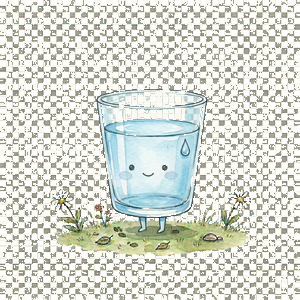
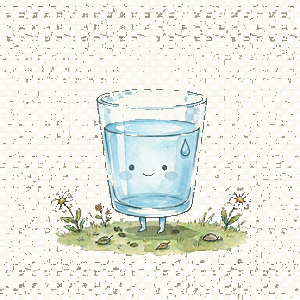
Kids: Agresywne usuwanie szachownicy v2 — poszerzony zakres szarości 125-235
Poprzedni zakres (140-210) nie łapał jaśniejszych kratek ~211-212.
Nowy algorytm: saturation<18 AND gray 125-235, plus dedykowane zakresy
dla 205-220 i 160-180. Wynik: 0% pozostałych szarych pikseli.

diff --git a/kids/index.html b/kids/index.html
@@ -220,7 +220,7 @@ body{display:flex;justify-content:center;align-items:center}
 </script>
 <div id="app">
   <div id="start-screen" class="screen active">
-    <div class="start-character"><img src="img/zaehni-brush.png?v=4" alt="Zähni"></div>
+    <div class="start-character"><img src="img/zaehni-brush.png?v=5" alt="Zähni"></div>
     <div class="start-title"><h1>FRYDENT Kids</h1><div class="subtitle">Zahnspiele mit Zähni</div></div>
     <div class="divider"></div>
     <button class="start-btn" onclick="showScreen('age-screen');playSound('click')">Los geht's!</button>
@@ -231,15 +231,15 @@ body{display:flex;justify-content:center;align-items:center}
     <div class="age-header"><h2>Wähle deine Gruppe!</h2><p>Wie alt bist du?</p></div>
     <div class="age-cards">
       <div class="age-card" onclick="selectAge('tiny');playSound('click')">
-        <div class="age-card-icon"><img src="img/zaehni-welcome.png?v=4" alt=""></div>
+        <div class="age-card-icon"><img src="img/zaehni-welcome.png?v=5" alt=""></div>
         <div class="age-card-text"><h3 style="color:var(--rose)">Zahnzwerge</h3><div class="age-range">3 – 5 Jahre</div><div class="age-desc">Bläschen, Zähneputzen, Zuordnen &amp; mehr</div></div>
       </div>
       <div class="age-card" onclick="selectAge('mid');playSound('click')">
-        <div class="age-card-icon"><img src="img/zaehni-brush.png?v=4" alt=""></div>
+        <div class="age-card-icon"><img src="img/zaehni-brush.png?v=5" alt=""></div>
         <div class="age-card-text"><h3 style="color:var(--sage)">Zahnforscher</h3><div class="age-range">5 – 7 Jahre</div><div class="age-desc">Memory, Quiz &amp; Bakterien fangen</div></div>
       </div>
       <div class="age-card" onclick="selectAge('big');playSound('click')">
-        <div class="age-card-icon"><img src="img/zaehni-detective.png?v=4" alt=""></div>
+        <div class="age-card-icon"><img src="img/zaehni-detective.png?v=5" alt=""></div>
         <div class="age-card-text"><h3 style="color:var(--lavender)">Zahndetektive</h3><div class="age-range">7 – 10 Jahre</div><div class="age-desc">Großes Memory, Quiz, Jagd &amp; Diplom</div></div>
       </div>
     </div>
@@ -249,7 +249,7 @@ body{display:flex;justify-content:center;align-items:center}
     <div class="hub-header">
       <button class="btn-round" onclick="showScreen('age-screen');playSound('click')">←</button>
       <div class="hub-title"><h2 id="hub-group-name"></h2><div class="stars-display" id="hub-stars"></div></div>
-      <div class="hub-mascot"><img id="hub-mascot-img" src="img/zaehni-welcome.png?v=4" alt=""></div>
+      <div class="hub-mascot"><img id="hub-mascot-img" src="img/zaehni-welcome.png?v=5" alt=""></div>
     </div>
     <div class="hub-games" id="hub-games-grid"></div>
   </div>
@@ -263,7 +263,7 @@ body{display:flex;justify-content:center;align-items:center}
   </div>
 
   <div class="win-overlay" id="win-overlay">
-    <div class="win-character"><img src="img/trophy.png?v=4" alt=""></div>
+    <div class="win-character"><img src="img/trophy.png?v=5" alt=""></div>
     <div class="win-text"><h2 id="win-title">Super gemacht!</h2><p id="win-subtitle"></p></div>
     <div class="win-stars" id="win-stars"></div>
     <button class="win-btn" onclick="closeWin();playSound('click')">Weiter spielen</button>
@@ -290,26 +290,26 @@ function closeWin(){document.getElementById('win-overlay').classList.remove('act
 
 const GAMES={tiny:[{id:'bubbles',icon:'bubbles',name:'Bläschen platzen',desc:'Fang die Bläschen!',color:'var(--sky-light)'},{id:'brushing',icon:'brushing',name:'Zähne putzen',desc:'Putz alle Zähne sauber!',color:'var(--sage-light)'},{id:'matching',icon:'matching',name:'Was gehört zusammen?',desc:'Finde die 6 Paare!',color:'var(--lavender-light)'},{id:'gutschlecht',icon:'gutschlecht',name:'Gut oder Schlecht?',desc:'Was mögen deine Zähne?',color:'var(--honey-light)'},{id:'diplom',icon:'diplom',name:'Dein Diplom',desc:'Zahnzwerg-Urkunde!',color:'var(--rose-light)'}],mid:[{id:'memory-6',icon:'memory',name:'Memory',desc:'6 Paare finden',color:'var(--sage-light)'},{id:'quiz-easy',icon:'quiz',name:'Kleines Quiz',desc:'5 Fragen über Zähne',color:'var(--honey-light)'},{id:'bakterien-easy',icon:'bakterien',name:'Bakterien fangen',desc:'Fang sie in 25 Sekunden!',color:'var(--rose-light)'},{id:'matching',icon:'matching',name:'Zuordnen',desc:'6 Paare verbinden!',color:'var(--lavender-light)'},{id:'diplom',icon:'diplom',name:'Dein Diplom',desc:'Zahnforscher-Urkunde!',color:'var(--sky-light)'}],big:[{id:'memory-8',icon:'memory',name:'Memory',desc:'8 Paare — für Profis!',color:'var(--sage-light)'},{id:'quiz-hard',icon:'quiz',name:'Großes Zahnquiz',desc:'8 knifflige Fragen',color:'var(--honey-light)'},{id:'bakterien-hard',icon:'bakterien',name:'Bakterienjagd',desc:'30 Sekunden Jagd!',color:'var(--rose-light)'},{id:'diplom',icon:'diplom',name:'Dein Diplom',desc:'Zahndetektiv-Urkunde',color:'var(--lavender-light)'}]};
 const GN={tiny:'Zahnzwerge',mid:'Zahnforscher',big:'Zahndetektive'};
-const GM={tiny:'img/zaehni-welcome.png?v=4',mid:'img/zaehni-brush.png?v=4',big:'img/zaehni-detective.png?v=4'};
+const GM={tiny:'img/zaehni-welcome.png?v=5',mid:'img/zaehni-brush.png?v=5',big:'img/zaehni-detective.png?v=5'};
 
 function buildHub(){const games=GAMES[currentAge];document.getElementById('hub-group-name').textContent=GN[currentAge];document.getElementById('hub-mascot-img').src=GM[currentAge];const ts=getTotalStars();document.getElementById('hub-stars').textContent=ts>0?'⭐ '+ts+' Sterne':'Sammle Sterne!';document.getElementById('hub-games-grid').innerHTML=games.map(g=>'<div class="game-card" onclick="startGame(\''+g.id+'\');playSound(\'click\')"><span class="card-star '+(stars[g.id]?'earned':'')+'">⭐</span><div class="game-card-icon">'+ICONS[g.icon]+'</div><h3>'+g.name+'</h3><p>'+g.desc+'</p><div class="game-card-accent" style="background:'+g.color+'"></div></div>').join('')}
 
 function startGame(gid){currentGame=gid;document.getElementById('game-content').innerHTML='';if(gid.startsWith('memory-'))setupMemory(parseInt(gid.split('-')[1]));else if(gid.startsWith('quiz-'))setupQuiz(gid==='quiz-hard'?8:5);else if(gid.startsWith('bakterien-'))setupBakterien(gid==='bakterien-hard'?30:25);else if(gid==='diplom')setupDiplom();else if(gid==='bubbles')setupBubbles();else if(gid==='brushing')setupBrushing();else if(gid==='matching')setupMatching();else if(gid==='gutschlecht')setupGutSchlecht();showScreen('game-screen')}
 
-const MC=[{id:'toothbrush',img:'img/card-toothbrush.png?v=4',n:'Zahnbürste'},{id:'toothpaste',img:'img/card-toothpaste.png?v=4',n:'Zahnpasta'},{id:'apple',img:'img/card-apple.png?v=4',n:'Apfel'},{id:'water',img:'img/card-water.png?v=4',n:'Wasser'},{id:'tooth',img:'img/card-tooth.png?v=4',n:'Zahn'},{id:'hourglass',img:'img/card-hourglass.png?v=4',n:'Sanduhr'},{id:'floss',img:'img/card-floss.png?v=4',n:'Zahnseide'},{id:'mirror',img:'img/card-mirror.png?v=4',n:'Spiegel'}];
+const MC=[{id:'toothbrush',img:'img/card-toothbrush.png?v=5',n:'Zahnbürste'},{id:'toothpaste',img:'img/card-toothpaste.png?v=5',n:'Zahnpasta'},{id:'apple',img:'img/card-apple.png?v=5',n:'Apfel'},{id:'water',img:'img/card-water.png?v=5',n:'Wasser'},{id:'tooth',img:'img/card-tooth.png?v=5',n:'Zahn'},{id:'hourglass',img:'img/card-hourglass.png?v=5',n:'Sanduhr'},{id:'floss',img:'img/card-floss.png?v=5',n:'Zahnseide'},{id:'mirror',img:'img/card-mirror.png?v=5',n:'Spiegel'}];
 let memS={};
 function setupMemory(pc){document.getElementById('game-screen-title').textContent='Memory';const cards=MC.slice(0,pc);let deck=[...cards,...cards].map((c,i)=>({...c,uid:i}));for(let i=deck.length-1;i>0;i--){const j=Math.floor(Math.random()*(i+1));[deck[i],deck[j]]=[deck[j],deck[i]]}memS={deck,flipped:[],matched:[],moves:0,pairs:pc,locked:false};document.getElementById('game-screen-info').textContent='0 Züge · 0/'+pc+' Paare';const cols=pc<=6?3:4;document.getElementById('game-content').innerHTML='<div class="memory-grid" style="grid-template-columns:repeat('+cols+',1fr)">'+deck.map((c,i)=>'<div class="memory-card" data-i="'+i+'" onclick="flipC('+i+')"><div class="memory-card-inner"><div class="memory-back"><div class="memory-back-tex"></div><div class="memory-back-motif"></div></div><div class="memory-front"><img src="'+c.img+'" alt="'+c.n+'"></div></div></div>').join('')+'</div>'}
 function flipC(i){const s=memS;if(s.locked||s.flipped.includes(i)||s.matched.includes(i))return;document.querySelectorAll('.memory-card')[i].classList.add('flipped');s.flipped.push(i);playSound('click');if(s.flipped.length===2){s.moves++;s.locked=true;const[a,b]=s.flipped;if(s.deck[a].id===s.deck[b].id){setTimeout(()=>{document.querySelectorAll('.memory-card')[a].classList.add('matched');document.querySelectorAll('.memory-card')[b].classList.add('matched');s.matched.push(a,b);s.flipped=[];s.locked=false;playSound('match');updMI();if(s.matched.length===s.deck.length)setTimeout(memWin,500)},400)}else{setTimeout(()=>{document.querySelectorAll('.memory-card')[a].classList.remove('flipped');document.querySelectorAll('.memory-card')[b].classList.remove('flipped');s.flipped=[];s.locked=false;playSound('wrong');updMI()},850)}}}
 function updMI(){document.getElementById('game-screen-info').textContent=memS.moves+' Züge · '+memS.matched.length/2+'/'+memS.pairs+' Paare'}
 function memWin(){const sc=memS.moves<=memS.pairs*2?3:memS.moves<=memS.pairs*3?2:1;stars[currentGame]=true;saveStars();showWin('Alle Paare gefunden!','In '+memS.moves+' Zügen',sc)}
 
-const QA=[{q:'Wie oft solltest du am Tag Zähne putzen?',a:['Einmal','Zweimal','Dreimal','Gar nicht'],c:1,img:null},{q:'Was macht Zucker mit deinen Zähnen?',a:['Macht sie stärker','Bakterien machen Säure daraus','Putzt sie sauber','Gar nichts'],c:1,img:'img/food-candy.png?v=4'},{q:'Wie lange solltest du Zähne putzen?',a:['30 Sekunden','1 Minute','2 Minuten','5 Minuten'],c:2,img:'img/card-hourglass.png?v=4'},{q:'Was schützt deine Zähne vor Karies?',a:['Schokolade','Fluorid in der Zahnpasta','Limonade','Kaugummi'],c:1,img:'img/card-toothpaste.png?v=4'},{q:'Welches Essen ist gut für deine Zähne?',a:['Gummibärchen','Bonbons','Äpfel und Karotten','Eis'],c:2,img:'img/food-apple.png?v=4'},{q:'Wie oft solltest du zum Zahnarzt gehen?',a:['Jeden Tag','Einmal im Jahr','Zweimal im Jahr','Nur bei Schmerzen'],c:2,img:null},{q:'Was reinigt die Zahnzwischenräume?',a:['Nur die Zahnbürste','Zahnseide','Mundwasser','Wasser'],c:1,img:'img/card-floss.png?v=4'},{q:'Was passiert bei einer Professionellen Zahnreinigung?',a:['Zähne werden gezogen','Zähne werden gründlich gereinigt','Man bekommt neue Zähne','Zähne werden angemalt'],c:1,img:null},{q:'Was ist das beste Getränk für deine Zähne?',a:['Cola','Apfelsaft','Wasser','Limonade'],c:2,img:'img/food-water.png?v=4'},{q:'Was solltest du nach dem Essen von Süßigkeiten tun?',a:['Noch mehr essen','Zähne putzen','Limonade trinken','Schlafen gehen'],c:1,img:'img/food-chocolate.png?v=4'}];
+const QA=[{q:'Wie oft solltest du am Tag Zähne putzen?',a:['Einmal','Zweimal','Dreimal','Gar nicht'],c:1,img:null},{q:'Was macht Zucker mit deinen Zähnen?',a:['Macht sie stärker','Bakterien machen Säure daraus','Putzt sie sauber','Gar nichts'],c:1,img:'img/food-candy.png?v=5'},{q:'Wie lange solltest du Zähne putzen?',a:['30 Sekunden','1 Minute','2 Minuten','5 Minuten'],c:2,img:'img/card-hourglass.png?v=5'},{q:'Was schützt deine Zähne vor Karies?',a:['Schokolade','Fluorid in der Zahnpasta','Limonade','Kaugummi'],c:1,img:'img/card-toothpaste.png?v=5'},{q:'Welches Essen ist gut für deine Zähne?',a:['Gummibärchen','Bonbons','Äpfel und Karotten','Eis'],c:2,img:'img/food-apple.png?v=5'},{q:'Wie oft solltest du zum Zahnarzt gehen?',a:['Jeden Tag','Einmal im Jahr','Zweimal im Jahr','Nur bei Schmerzen'],c:2,img:null},{q:'Was reinigt die Zahnzwischenräume?',a:['Nur die Zahnbürste','Zahnseide','Mundwasser','Wasser'],c:1,img:'img/card-floss.png?v=5'},{q:'Was passiert bei einer Professionellen Zahnreinigung?',a:['Zähne werden gezogen','Zähne werden gründlich gereinigt','Man bekommt neue Zähne','Zähne werden angemalt'],c:1,img:null},{q:'Was ist das beste Getränk für deine Zähne?',a:['Cola','Apfelsaft','Wasser','Limonade'],c:2,img:'img/food-water.png?v=5'},{q:'Was solltest du nach dem Essen von Süßigkeiten tun?',a:['Noch mehr essen','Zähne putzen','Limonade trinken','Schlafen gehen'],c:1,img:'img/food-chocolate.png?v=5'}];
 let qS={};
 function setupQuiz(cnt){document.getElementById('game-screen-title').textContent=cnt<=5?'Kleines Quiz':'Großes Zahnquiz';document.getElementById('game-screen-info').textContent='Frage 1 von '+cnt;const qs=[...QA].sort(()=>Math.random()-.5).slice(0,cnt);qS={qs,cur:0,score:0,ans:false,total:cnt};renderQ()}
-function renderQ(){const q=qS.qs[qS.cur];const imgHtml=q.img?'<div style="width:110px;height:110px;margin:0 auto"><img src="'+q.img+'" style="width:100%;height:100%;object-fit:contain" alt=""></div>':'<div class="quiz-character"><img src="img/zaehni-detective.png?v=4" alt=""></div>';document.getElementById('game-content').innerHTML='<div class="quiz-container"><div class="quiz-progress"><div class="quiz-progress-bar" style="width:'+(qS.cur/qS.total*100)+'%"></div></div>'+imgHtml+'<div class="quiz-question"><h3>'+q.q+'</h3></div><div class="quiz-answers">'+q.a.map((a,i)=>'<button class="quiz-answer" onclick="ansQ('+i+')">'+a+'</button>').join('')+'</div><div class="quiz-feedback" id="qfb"></div></div>'}
+function renderQ(){const q=qS.qs[qS.cur];const imgHtml=q.img?'<div style="width:110px;height:110px;margin:0 auto"><img src="'+q.img+'" style="width:100%;height:100%;object-fit:contain" alt=""></div>':'<div class="quiz-character"><img src="img/zaehni-detective.png?v=5" alt=""></div>';document.getElementById('game-content').innerHTML='<div class="quiz-container"><div class="quiz-progress"><div class="quiz-progress-bar" style="width:'+(qS.cur/qS.total*100)+'%"></div></div>'+imgHtml+'<div class="quiz-question"><h3>'+q.q+'</h3></div><div class="quiz-answers">'+q.a.map((a,i)=>'<button class="quiz-answer" onclick="ansQ('+i+')">'+a+'</button>').join('')+'</div><div class="quiz-feedback" id="qfb"></div></div>'}
 function ansQ(i){if(qS.ans)return;qS.ans=true;const q=qS.qs[qS.cur],btns=document.querySelectorAll('.quiz-answer'),fb=document.getElementById('qfb');btns[q.c].classList.add('correct');if(i===q.c){qS.score++;playSound('correct');fb.textContent='✓ Richtig!';fb.style.color='#4a6a38'}else{btns[i].classList.add('wrong');playSound('wrong');fb.textContent='✗ Leider falsch!';fb.style.color='#8a4a42'}btns.forEach(b=>b.style.pointerEvents='none');setTimeout(()=>{qS.cur++;qS.ans=false;if(qS.cur>=qS.total){const sc=qS.score>=qS.total-1?3:qS.score>=qS.total*.6?2:1;stars[currentGame]=true;saveStars();showWin(qS.score>=qS.total-1?'Zahnexperte!':'Gut gemacht!',qS.score+' von '+qS.total+' richtig',sc)}else{document.getElementById('game-screen-info').textContent='Frage '+(qS.cur+1)+' von '+qS.total;renderQ()}},1400)}
 
-const BI=['img/bacteria-purple.png?v=4','img/bacteria-green.png?v=4','img/bacteria-orange.png?v=4','img/bacteria-pink.png?v=4'];
+const BI=['img/bacteria-purple.png?v=5','img/bacteria-green.png?v=5','img/bacteria-orange.png?v=5','img/bacteria-pink.png?v=5'];
 let bakterienState={timer:null,spawner:null};
 function setupBakterien(sec){document.getElementById('game-screen-title').textContent='Bakterien fangen';document.getElementById('game-screen-info').textContent=sec+' Sekunden';const mSvg='<svg viewBox="0 0 480 50" preserveAspectRatio="none"><path d="M0,30 Q40,15 80,28 Q120,38 160,25 Q200,15 240,30 Q280,40 320,22 Q360,12 400,28 Q440,38 480,25 L480,50 L0,50 Z" fill="rgba(168,200,184,.35)"/><path d="M0,38 Q60,28 120,36 Q180,44 240,34 Q300,26 360,38 Q420,46 480,32 L480,50 L0,50 Z" fill="rgba(138,154,107,.2)"/></svg>';document.getElementById('game-content').innerHTML='<div class="bakterien-arena" id="ba"><div class="arena-hud"><div class="hud-badge" id="bs">0 gefangen</div><div class="hud-badge" id="bt">'+sec+'s</div></div><div class="meadow">'+mSvg+'</div></div>';bakterienState={score:0,timeLeft:sec,timer:null,spawner:null,active:true};setTimeout(startB,400)}
 function startB(){const s=bakterienState;s.timer=setInterval(()=>{s.timeLeft--;const e=document.getElementById('bt');if(e)e.textContent=s.timeLeft+'s';if(s.timeLeft<=0){clearInterval(s.timer);clearInterval(s.spawner);s.active=false;const sc=s.score>=20?3:s.score>=12?2:1;stars[currentGame]=true;saveStars();showWin(s.score>=20?'Bakterienjäger!':'Gut gefangen!',s.score+' Bakterien erwischt',sc)}},1000);spawnB();s.spawner=setInterval(spawnB,750)}
@@ -321,24 +321,24 @@ function startBu(){const s=bubblesState;s.timer=setInterval(()=>{s.timeLeft--;co
 function spawnBub(){if(!bubblesState.active)return;const a=document.getElementById('bua');if(!a)return;const cs=['rgba(120,200,230,.65)','rgba(180,130,210,.6)','rgba(240,160,170,.55)','rgba(160,210,140,.55)','rgba(230,190,100,.55)','rgba(200,140,180,.6)'];const e=document.createElement('div');e.className='bubble';const sz=42+Math.random()*40;e.style.width=sz+'px';e.style.height=sz+'px';e.style.left=(8+Math.random()*(a.offsetWidth-sz-16))+'px';e.style.background='radial-gradient(circle at 35% 30%,rgba(255,255,255,.5),'+cs[Math.floor(Math.random()*cs.length)]+')';e.style.animationDuration=(3.5+Math.random()*2)+'s';e.addEventListener('pointerdown',ev=>{ev.preventDefault();if(e.classList.contains('popped'))return;e.classList.add('popped');bubblesState.score++;const sc=document.getElementById('bus');if(sc)sc.textContent=bubblesState.score+' geplatzt';playSound('pop');setTimeout(()=>e.remove(),300)});a.appendChild(e);setTimeout(()=>e.remove(),5500)}
 
 let brS={};
-function setupBrushing(){document.getElementById('game-screen-title').textContent='Zähne putzen';document.getElementById('game-screen-info').textContent='Male alle Zähne weiß!';brS={cleaned:0,total:14,painting:false};let upper='',lower='';for(let i=0;i<7;i++)upper+='<div class="brush-tooth" data-i="'+i+'"></div>';for(let i=7;i<14;i++)lower+='<div class="brush-tooth" data-i="'+i+'"></div>';document.getElementById('game-content').innerHTML='<div class="brush-area"><img src="img/zaehni-brush.png?v=4" style="width:80px;height:80px;object-fit:contain" alt=""><div class="brush-progress"><div class="brush-progress-bar" id="brbar" style="width:0%"></div></div><div class="brush-hint"><svg viewBox="0 0 20 20" fill="none"><path d="M10,4 L10,16" stroke="var(--bark-light)" stroke-width="1.5" stroke-linecap="round"/><path d="M6,8 L10,4 L14,8" stroke="var(--bark-light)" stroke-width="1.5" stroke-linecap="round" fill="none"/><path d="M6,12 L10,16 L14,12" stroke="var(--bark-light)" stroke-width="1.5" stroke-linecap="round" fill="none"/></svg>Wische mit dem Finger über die Zähne!</div><div class="brush-mouth" id="brush-mouth"><div class="tooth-row upper">'+upper+'</div><div class="tooth-row lower">'+lower+'</div></div></div>';const mouth=document.getElementById("brush-mouth");mouth.addEventListener("pointerdown",function(e){e.preventDefault();brS.painting=true;paintAt(e)});mouth.addEventListener("pointermove",function(e){e.preventDefault();if(brS.painting)paintAt(e)});mouth.addEventListener("pointerup",function(){brS.painting=false});mouth.addEventListener("pointerleave",function(){brS.painting=false})}
+function setupBrushing(){document.getElementById('game-screen-title').textContent='Zähne putzen';document.getElementById('game-screen-info').textContent='Male alle Zähne weiß!';brS={cleaned:0,total:14,painting:false};let upper='',lower='';for(let i=0;i<7;i++)upper+='<div class="brush-tooth" data-i="'+i+'"></div>';for(let i=7;i<14;i++)lower+='<div class="brush-tooth" data-i="'+i+'"></div>';document.getElementById('game-content').innerHTML='<div class="brush-area"><img src="img/zaehni-brush.png?v=5" style="width:80px;height:80px;object-fit:contain" alt=""><div class="brush-progress"><div class="brush-progress-bar" id="brbar" style="width:0%"></div></div><div class="brush-hint"><svg viewBox="0 0 20 20" fill="none"><path d="M10,4 L10,16" stroke="var(--bark-light)" stroke-width="1.5" stroke-linecap="round"/><path d="M6,8 L10,4 L14,8" stroke="var(--bark-light)" stroke-width="1.5" stroke-linecap="round" fill="none"/><path d="M6,12 L10,16 L14,12" stroke="var(--bark-light)" stroke-width="1.5" stroke-linecap="round" fill="none"/></svg>Wische mit dem Finger über die Zähne!</div><div class="brush-mouth" id="brush-mouth"><div class="tooth-row upper">'+upper+'</div><div class="tooth-row lower">'+lower+'</div></div></div>';const mouth=document.getElementById("brush-mouth");mouth.addEventListener("pointerdown",function(e){e.preventDefault();brS.painting=true;paintAt(e)});mouth.addEventListener("pointermove",function(e){e.preventDefault();if(brS.painting)paintAt(e)});mouth.addEventListener("pointerup",function(){brS.painting=false});mouth.addEventListener("pointerleave",function(){brS.painting=false})}
 function paintAt(e){const teeth=document.querySelectorAll(".brush-tooth");teeth.forEach(function(t){const r=t.getBoundingClientRect();if(e.clientX>=r.left&&e.clientX<=r.right&&e.clientY>=r.top&&e.clientY<=r.bottom){if(!t.classList.contains("clean")){if(!t.classList.contains("painting")){t.classList.add("painting");setTimeout(function(){t.classList.remove("painting");t.classList.add("clean");brS.cleaned++;playSound("pop");document.getElementById("brbar").style.width=(brS.cleaned/brS.total*100)+"%";if(brS.cleaned>=brS.total)setTimeout(function(){stars["brushing"]=true;saveStars();showWin("Alle Zähne sauber!","Super geputzt!",3)},400)},300)}}}})}
 
-const MP=[{img:'img/card-toothbrush.png?v=4',l:'Zahnbürste',m:'Zähne putzen'},{img:'img/card-toothpaste.png?v=4',l:'Zahnpasta',m:'Schutz vor Karies'},{img:'img/card-apple.png?v=4',l:'Apfel',m:'Gesunder Snack'},{img:'img/card-water.png?v=4',l:'Wasser',m:'Bestes Getränk'},{img:'img/card-hourglass.png?v=4',l:'Sanduhr',m:'2 Minuten putzen'},{img:'img/card-floss.png?v=4',l:'Zahnseide',m:'Zahnzwischenräume'}];
+const MP=[{img:'img/card-toothbrush.png?v=5',l:'Zahnbürste',m:'Zähne putzen'},{img:'img/card-toothpaste.png?v=5',l:'Zahnpasta',m:'Schutz vor Karies'},{img:'img/card-apple.png?v=5',l:'Apfel',m:'Gesunder Snack'},{img:'img/card-water.png?v=5',l:'Wasser',m:'Bestes Getränk'},{img:'img/card-hourglass.png?v=5',l:'Sanduhr',m:'2 Minuten putzen'},{img:'img/card-floss.png?v=5',l:'Zahnseide',m:'Zahnzwischenräume'}];
 let mS={};
 function setupMatching(){document.getElementById('game-screen-title').textContent='Was gehört zusammen?';document.getElementById('game-screen-info').textContent='0/6 Paare';mS={sel:null,matched:0,total:6};let ri=MP.map((p,i)=>({i,t:p.m}));for(let i=ri.length-1;i>0;i--){const j=Math.floor(Math.random()*(i+1));[ri[i],ri[j]]=[ri[j],ri[i]]}document.getElementById('game-content').innerHTML='<div class="matching-container"><p style="text-align:center;font-size:13px;color:var(--bark-light);font-style:italic;margin-bottom:4px">Verbinde Bild und Beschreibung!</p><div class="matching-row"><div class="matching-col">'+MP.map((p,i)=>'<div class="matching-item" data-s="l" data-i="'+i+'" onclick="sM(\'l\','+i+')"><img src="'+p.img+'" alt=""><span>'+p.l+'</span></div>').join('')+'</div><div class="matching-col">'+ri.map(r=>'<div class="matching-item" data-s="r" data-i="'+r.i+'" onclick="sM(\'r\','+r.i+')"><span style="font-size:14px">'+r.t+'</span></div>').join('')+'</div></div></div>'}
 function sM(side,idx){const el=document.querySelector('.matching-item[data-s="'+side+'"][data-i="'+idx+'"]');if(el.classList.contains('matched'))return;document.querySelectorAll('.matching-item[data-s="'+side+'"]').forEach(e=>e.classList.remove('selected'));el.classList.add('selected');playSound('click');if(!mS.sel||mS.sel.s===side){mS.sel={s:side,i:idx};return}const li=side==='l'?idx:mS.sel.i,ri=side==='r'?idx:mS.sel.i;if(li===ri){document.querySelector('.matching-item[data-s="l"][data-i="'+li+'"]').classList.add('matched');document.querySelector('.matching-item[data-s="r"][data-i="'+ri+'"]').classList.add('matched');document.querySelectorAll('.matching-item').forEach(e=>e.classList.remove('selected'));mS.matched++;mS.sel=null;playSound('match');document.getElementById('game-screen-info').textContent=mS.matched+'/'+mS.total+' Paare';if(mS.matched>=mS.total)setTimeout(()=>{stars['matching']=true;saveStars();showWin('Alles gefunden!','Du kennst dich aus!',3)},500)}else{playSound('wrong');setTimeout(()=>{document.querySelectorAll('.matching-item').forEach(e=>e.classList.remove('selected'));mS.sel=null},500)}}
 
-const GS_ITEMS=[{name:'Apfel',img:'img/food-apple.png?v=4',gut:true},{name:'Bonbon',img:'img/food-candy.png?v=4',gut:false},{name:'Karotte',img:'img/food-carrot.png?v=4',gut:true},{name:'Limonade',img:'img/food-lemonade.png?v=4',gut:false},{name:'Käse',img:'img/food-cheese.png?v=4',gut:true},{name:'Schokolade',img:'img/food-chocolate.png?v=4',gut:false},{name:'Wasser',img:'img/food-water.png?v=4',gut:true},{name:'Eis',img:'img/food-icecream.png?v=4',gut:false},{name:'Nüsse',img:'img/food-nuts.png?v=4',gut:true},{name:'Kuchen',img:'img/food-cake.png?v=4',gut:false}];
+const GS_ITEMS=[{name:'Apfel',img:'img/food-apple.png?v=5',gut:true},{name:'Bonbon',img:'img/food-candy.png?v=5',gut:false},{name:'Karotte',img:'img/food-carrot.png?v=5',gut:true},{name:'Limonade',img:'img/food-lemonade.png?v=5',gut:false},{name:'Käse',img:'img/food-cheese.png?v=5',gut:true},{name:'Schokolade',img:'img/food-chocolate.png?v=5',gut:false},{name:'Wasser',img:'img/food-water.png?v=5',gut:true},{name:'Eis',img:'img/food-icecream.png?v=5',gut:false},{name:'Nüsse',img:'img/food-nuts.png?v=5',gut:true},{name:'Kuchen',img:'img/food-cake.png?v=5',gut:false}];
 let gsS={};
 function setupGutSchlecht(){document.getElementById('game-screen-title').textContent='Gut oder Schlecht?';document.getElementById('game-screen-info').textContent='Frage 1 von 8';const items=[...GS_ITEMS].sort(()=>Math.random()-.5).slice(0,8);gsS={items,cur:0,score:0,ans:false,total:8};renderGS()}
-function renderGS(){const it=gsS.items[gsS.cur];document.getElementById('game-content').innerHTML='<div style="width:100%;max-width:340px;display:flex;flex-direction:column;align-items:center;gap:16px"><div style="width:100%;height:6px;background:var(--parchment-warm);border-radius:3px;overflow:hidden"><div style="height:100%;width:'+(gsS.cur/gsS.total*100)+'%;background:linear-gradient(90deg,var(--sage),var(--honey));border-radius:3px;transition:width .4s"></div></div><div style="text-align:center"><img src="img/zaehni-welcome.png?v=4" style="width:70px;height:70px;object-fit:contain" alt=""><p style="font-family:Quicksand,sans-serif;font-size:16px;font-weight:700;margin-top:6px">Ist das gut für deine Zähne?</p></div><div style="width:200px;height:200px;margin:4px auto"><img src="'+it.img+'" style="width:100%;height:100%;object-fit:contain;filter:drop-shadow(0 4px 10px rgba(90,78,66,.12))" alt="'+it.name+'"></div><div style="font-family:Quicksand,sans-serif;font-size:22px;font-weight:700;text-align:center;color:var(--bark)">'+it.name+'</div><div style="display:flex;gap:16px;margin-top:8px;width:100%"><button onclick="ansGS(true)" style="flex:1;padding:16px;border:2px solid var(--sage-light);border-radius:var(--radius);background:var(--cream);cursor:pointer;font-size:16px;font-family:Quicksand,sans-serif;font-weight:700;color:var(--sage);transition:all .2s"><span style="font-size:28px;display:block;margin-bottom:4px">😊</span>Gut!</button><button onclick="ansGS(false)" style="flex:1;padding:16px;border:2px solid var(--rose-light);border-radius:var(--radius);background:var(--cream);cursor:pointer;font-size:16px;font-family:Quicksand,sans-serif;font-weight:700;color:var(--rose);transition:all .2s"><span style="font-size:28px;display:block;margin-bottom:4px">😟</span>Schlecht!</button></div><div id="gsfb" style="text-align:center;font-weight:600;font-size:15px;min-height:36px"></div></div>'}
+function renderGS(){const it=gsS.items[gsS.cur];document.getElementById('game-content').innerHTML='<div style="width:100%;max-width:340px;display:flex;flex-direction:column;align-items:center;gap:16px"><div style="width:100%;height:6px;background:var(--parchment-warm);border-radius:3px;overflow:hidden"><div style="height:100%;width:'+(gsS.cur/gsS.total*100)+'%;background:linear-gradient(90deg,var(--sage),var(--honey));border-radius:3px;transition:width .4s"></div></div><div style="text-align:center"><img src="img/zaehni-welcome.png?v=5" style="width:70px;height:70px;object-fit:contain" alt=""><p style="font-family:Quicksand,sans-serif;font-size:16px;font-weight:700;margin-top:6px">Ist das gut für deine Zähne?</p></div><div style="width:200px;height:200px;margin:4px auto"><img src="'+it.img+'" style="width:100%;height:100%;object-fit:contain;filter:drop-shadow(0 4px 10px rgba(90,78,66,.12))" alt="'+it.name+'"></div><div style="font-family:Quicksand,sans-serif;font-size:22px;font-weight:700;text-align:center;color:var(--bark)">'+it.name+'</div><div style="display:flex;gap:16px;margin-top:8px;width:100%"><button onclick="ansGS(true)" style="flex:1;padding:16px;border:2px solid var(--sage-light);border-radius:var(--radius);background:var(--cream);cursor:pointer;font-size:16px;font-family:Quicksand,sans-serif;font-weight:700;color:var(--sage);transition:all .2s"><span style="font-size:28px;display:block;margin-bottom:4px">😊</span>Gut!</button><button onclick="ansGS(false)" style="flex:1;padding:16px;border:2px solid var(--rose-light);border-radius:var(--radius);background:var(--cream);cursor:pointer;font-size:16px;font-family:Quicksand,sans-serif;font-weight:700;color:var(--rose);transition:all .2s"><span style="font-size:28px;display:block;margin-bottom:4px">😟</span>Schlecht!</button></div><div id="gsfb" style="text-align:center;font-weight:600;font-size:15px;min-height:36px"></div></div>'}
 function ansGS(isGut){if(gsS.ans)return;gsS.ans=true;const correct=gsS.items[gsS.cur].gut===isGut;const fb=document.getElementById('gsfb');if(correct){gsS.score++;playSound('correct');fb.textContent='✓ Richtig!';fb.style.color='#4a6a38'}else{playSound('wrong');fb.textContent='✗ '+(gsS.items[gsS.cur].gut?'Das ist gut für Zähne!':'Das ist schlecht für Zähne!');fb.style.color='#8a4a42'}setTimeout(()=>{gsS.cur++;gsS.ans=false;if(gsS.cur>=gsS.total){const sc=gsS.score>=7?3:gsS.score>=5?2:1;stars['gutschlecht']=true;saveStars();showWin(gsS.score>=7?'Zahnprofi!':'Gut gemacht!',gsS.score+' von '+gsS.total+' richtig',sc)}else{document.getElementById('game-screen-info').textContent='Frage '+(gsS.cur+1)+' von '+gsS.total;renderGS()}},1400)}
 
-function setupDiplom(){document.getElementById('game-screen-title').textContent='Dein Diplom';document.getElementById('game-screen-info').textContent='';const ts=getTotalStars();const titles={tiny:'Zahnzwerg-Diplom',mid:'Zahnforscher-Diplom',big:'Zahnheld-Diplom'};const subtitles={tiny:'ein echter Zahnzwerg',mid:'ein echter Zahnforscher',big:'ein echter Zahnheld'};const dt=titles[currentAge]||'Zahnheld-Diplom';const ds=subtitles[currentAge]||'ein echter Zahnheld';const vine='<svg class="diplom-vine" viewBox="0 0 120 16"><path d="M10,8 Q30,2 45,8 Q55,12 65,8 Q75,4 85,8 Q95,12 110,8" fill="none" stroke="rgba(123,164,144,.3)" stroke-width="1.5"/><circle cx="25" cy="5" r="2.5" fill="rgba(193,123,110,.25)"/><circle cx="55" cy="10" r="2" fill="rgba(212,167,106,.3)"/><circle cx="85" cy="5" r="2.5" fill="rgba(168,139,174,.25)"/></svg>';document.getElementById('game-content').innerHTML='<div class="diplom-container"><div class="diplom-frame"><div class="diplom-corner"></div><div class="diplom-corner"></div><div class="diplom-corner"></div><div class="diplom-corner"></div><div class="diplom-character"><img src="img/zaehni-winner.png?v=4" alt="" style="width:90px;height:90px;object-fit:contain"></div><div style="width:160px;z-index:1;margin:-8px 0"><img src="img/trophy.png?v=4" alt="" style="width:100%;object-fit:contain"></div><div class="diplom-title">'+dt+'</div>'+vine+'<div class="diplom-text">Hiermit wird bestätigt, dass</div><input type="text" class="diplom-name-input" id="dn" placeholder="Dein Name" maxlength="20"><div class="diplom-text">alle Zahnspiele gemeistert hat<br>und '+ds+' ist!</div><div class="diplom-stars">'+'⭐'.repeat(Math.min(ts,8))+'</div>'+vine+'<div class="diplom-praxis">FRYDENT Zahnarztpraxis · Bonndorf im Schwarzwald<br>'+new Date().toLocaleDateString('de-DE')+'</div></div><button class="diplom-btn" onclick="printD()">Diplom drucken</button></div>'}
+function setupDiplom(){document.getElementById('game-screen-title').textContent='Dein Diplom';document.getElementById('game-screen-info').textContent='';const ts=getTotalStars();const titles={tiny:'Zahnzwerg-Diplom',mid:'Zahnforscher-Diplom',big:'Zahnheld-Diplom'};const subtitles={tiny:'ein echter Zahnzwerg',mid:'ein echter Zahnforscher',big:'ein echter Zahnheld'};const dt=titles[currentAge]||'Zahnheld-Diplom';const ds=subtitles[currentAge]||'ein echter Zahnheld';const vine='<svg class="diplom-vine" viewBox="0 0 120 16"><path d="M10,8 Q30,2 45,8 Q55,12 65,8 Q75,4 85,8 Q95,12 110,8" fill="none" stroke="rgba(123,164,144,.3)" stroke-width="1.5"/><circle cx="25" cy="5" r="2.5" fill="rgba(193,123,110,.25)"/><circle cx="55" cy="10" r="2" fill="rgba(212,167,106,.3)"/><circle cx="85" cy="5" r="2.5" fill="rgba(168,139,174,.25)"/></svg>';document.getElementById('game-content').innerHTML='<div class="diplom-container"><div class="diplom-frame"><div class="diplom-corner"></div><div class="diplom-corner"></div><div class="diplom-corner"></div><div class="diplom-corner"></div><div class="diplom-character"><img src="img/zaehni-winner.png?v=5" alt="" style="width:90px;height:90px;object-fit:contain"></div><div style="width:160px;z-index:1;margin:-8px 0"><img src="img/trophy.png?v=5" alt="" style="width:100%;object-fit:contain"></div><div class="diplom-title">'+dt+'</div>'+vine+'<div class="diplom-text">Hiermit wird bestätigt, dass</div><input type="text" class="diplom-name-input" id="dn" placeholder="Dein Name" maxlength="20"><div class="diplom-text">alle Zahnspiele gemeistert hat<br>und '+ds+' ist!</div><div class="diplom-stars">'+'⭐'.repeat(Math.min(ts,8))+'</div>'+vine+'<div class="diplom-praxis">FRYDENT Zahnarztpraxis · Bonndorf im Schwarzwald<br>'+new Date().toLocaleDateString('de-DE')+'</div></div><button class="diplom-btn" onclick="printD()">Diplom drucken</button></div>'}
 function printD(){const nm=document.getElementById('dn').value||'Zahnheld';const ts=getTotalStars();stars['diplom']=true;saveStars();const titles={tiny:'Zahnzwerg-Diplom',mid:'Zahnforscher-Diplom',big:'Zahnheld-Diplom'};const subs={tiny:'ein echter Zahnzwerg',mid:'ein echter Zahnforscher',big:'ein echter Zahnheld'};const dt=titles[currentAge]||'Zahnheld-Diplom';const ds=subs[currentAge]||'ein echter Zahnheld';const w=window.open('','_blank');w.document.write('<!DOCTYPE html><html><head><meta charset="UTF-8"><link href="https://fonts.googleapis.com/css2?family=Quicksand:wght@500;600;700&family=Nunito:wght@400;600;700&display=swap" rel="stylesheet"><style>body{display:flex;justify-content:center;align-items:center;min-height:100vh;margin:0;font-family:"Nunito",sans-serif;background:#FAF6EF}.d{width:560px;padding:50px 40px;text-align:center;background:#FFFCF5;border:2px solid #E8CFA0;border-radius:16px;position:relative}.d::before{content:"";position:absolute;inset:10px;border:1.5px solid #A8C8B8;border-radius:12px}.d::after{content:"";position:absolute;inset:14px;border:1px dashed #F5E8CE;border-radius:10px}h1{font-family:"Quicksand",sans-serif;color:#7BA490;font-size:28px;margin:16px 0 8px}h2{font-family:"Quicksand",sans-serif;color:#D4A76A;font-size:30px;margin:12px 0}p{color:#8A7E72;font-size:15px;line-height:1.6;font-style:italic}.s{font-size:24px;letter-spacing:5px;margin:14px 0}.f{font-size:12px;color:#aaa;margin-top:20px;font-style:normal}@media print{body{background:white}}</style></head><body><div class="d"><p style="font-size:13px;font-style:normal">✿ ✿ ✿</p><h1>'+dt+'</h1><p>Hiermit wird bestätigt, dass</p><h2>'+nm+'</h2><p>alle Zahnspiele bei FRYDENT Kids erfolgreich gemeistert hat und nun '+ds+' ist!</p><div class="s">'+'⭐'.repeat(Math.min(ts,8))+'</div><p style="font-size:12px;margin-top:12px;font-style:normal">✿ ✿ ✿</p><div class="f">FRYDENT Zahnarztpraxis · Martinstraße 4 · 79848 Bonndorf im Schwarzwald<br>'+new Date().toLocaleDateString('de-DE')+'</div></div><script>setTimeout(()=>window.print(),500)<\/script></body></html>')}
 
-[...MC.map(c=>c.img),...BI,'img/zaehni-welcome.png?v=4','img/zaehni-brush.png?v=4','img/zaehni-winner.png?v=4','img/zaehni-detective.png?v=4','img/trophy.png?v=4','img/food-apple.png?v=4','img/food-candy.png?v=4','img/food-carrot.png?v=4','img/food-lemonade.png?v=4','img/food-cheese.png?v=4','img/food-chocolate.png?v=4','img/food-water.png?v=4','img/food-icecream.png?v=4','img/food-nuts.png?v=4','img/food-cake.png?v=4'].forEach(s=>{const i=new Image();i.src=s});
+[...MC.map(c=>c.img),...BI,'img/zaehni-welcome.png?v=5','img/zaehni-brush.png?v=5','img/zaehni-winner.png?v=5','img/zaehni-detective.png?v=5','img/trophy.png?v=5','img/food-apple.png?v=5','img/food-candy.png?v=5','img/food-carrot.png?v=5','img/food-lemonade.png?v=5','img/food-cheese.png?v=5','img/food-chocolate.png?v=5','img/food-water.png?v=5','img/food-icecream.png?v=5','img/food-nuts.png?v=5','img/food-cake.png?v=5'].forEach(s=>{const i=new Image();i.src=s});
 // SW disabled - cache nuke active
 </script>
 </body>
